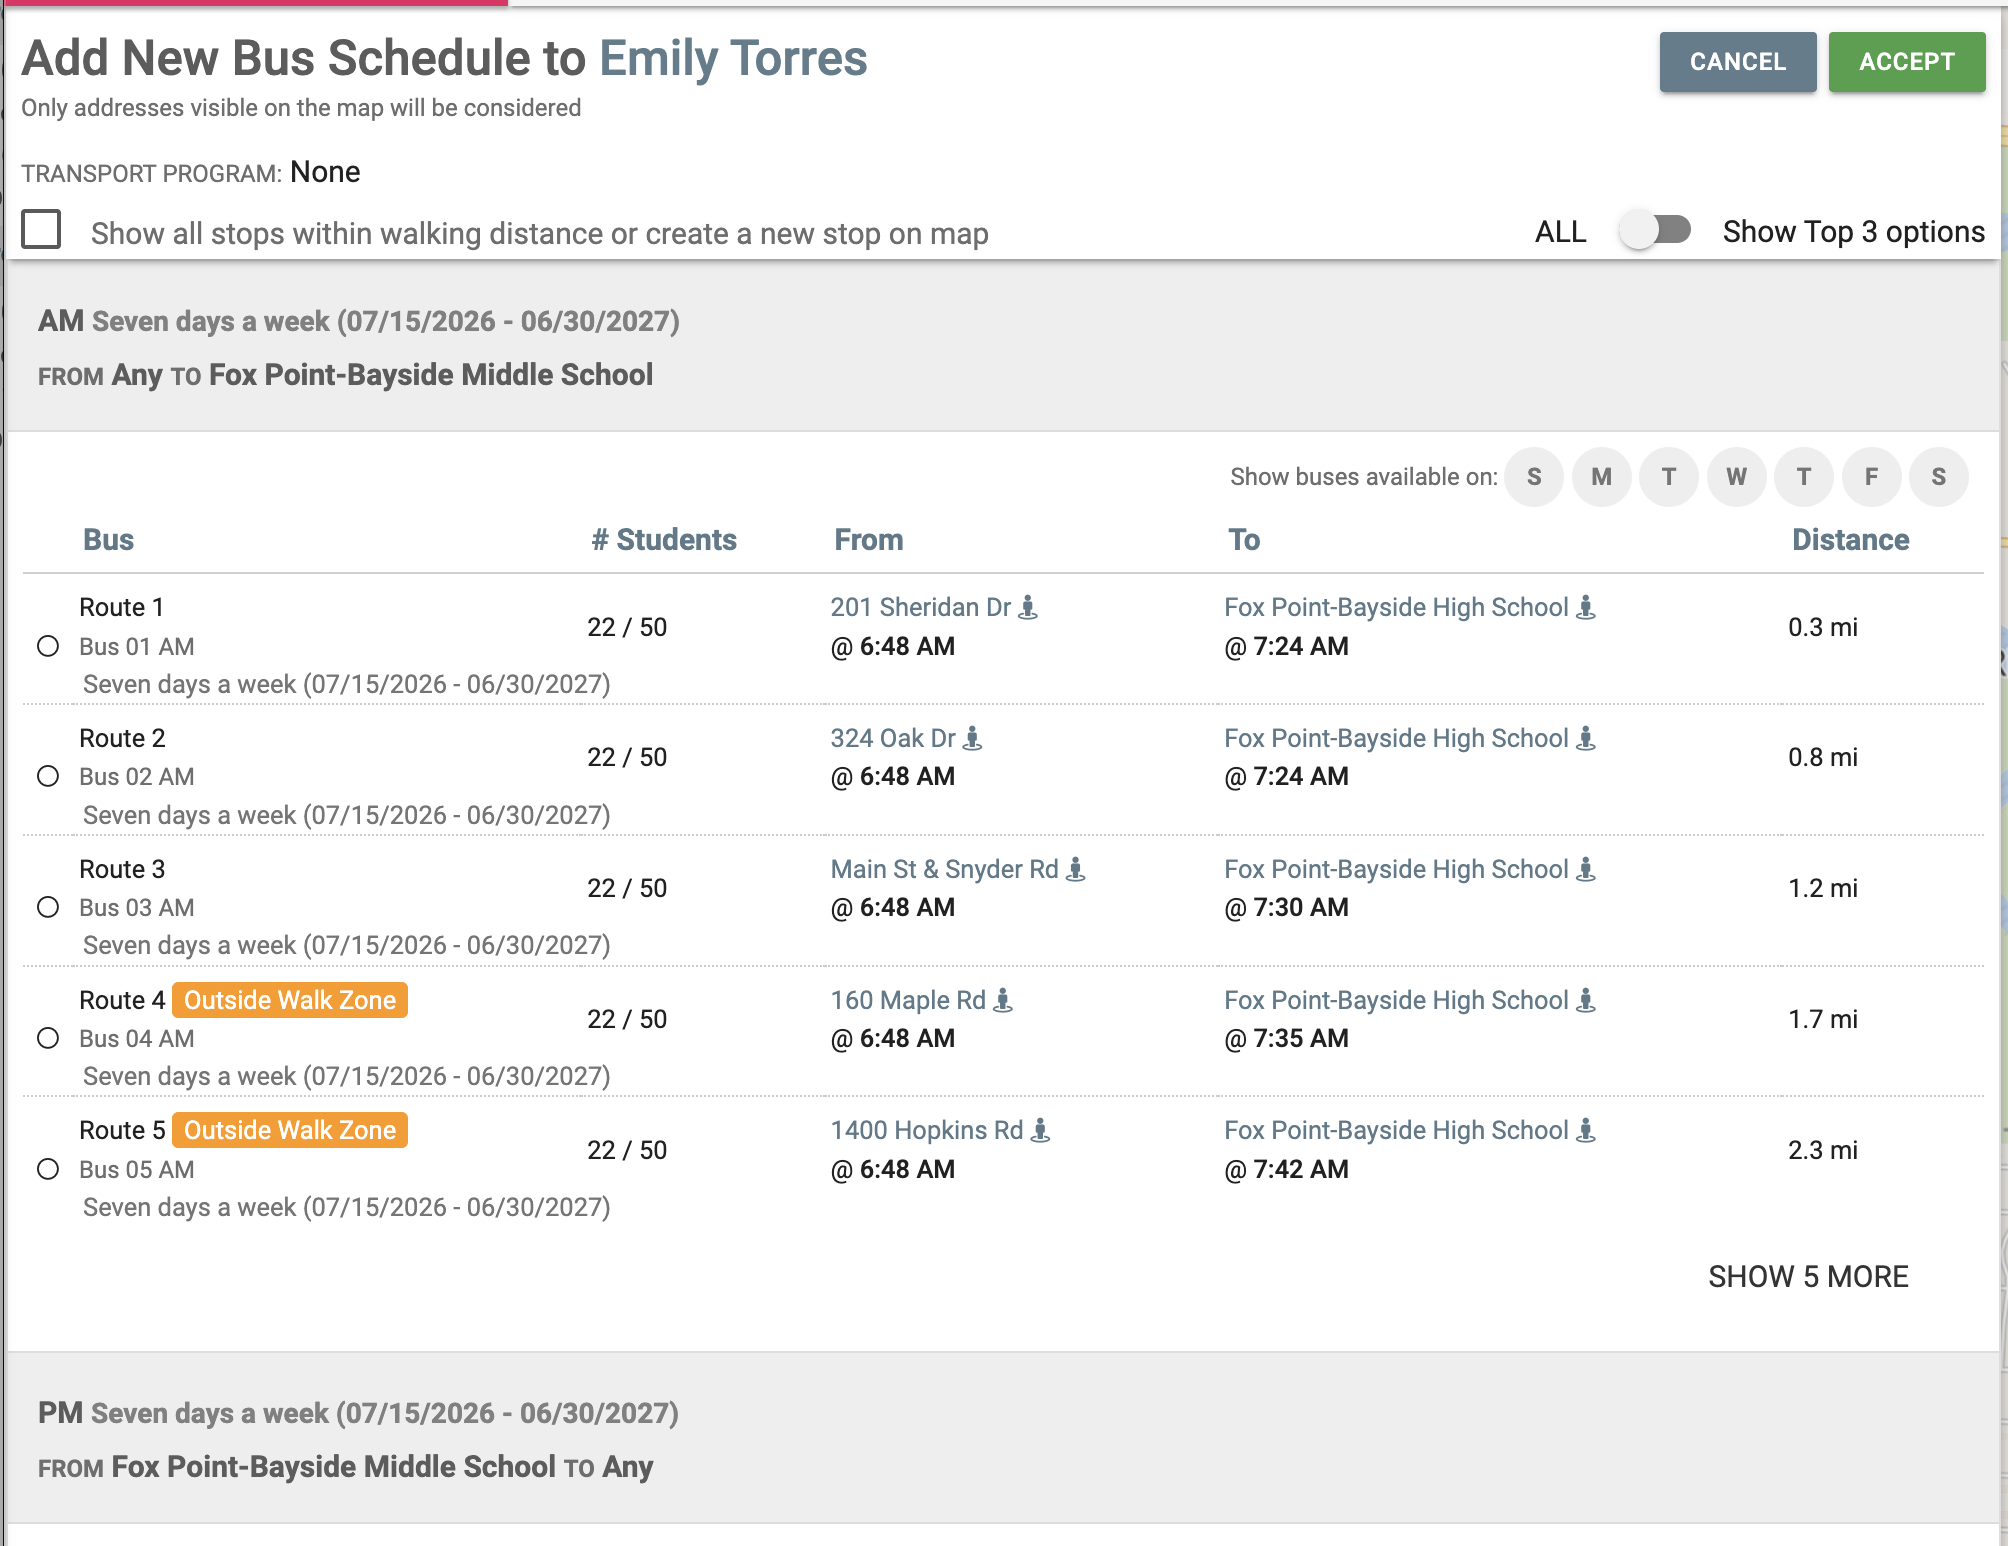
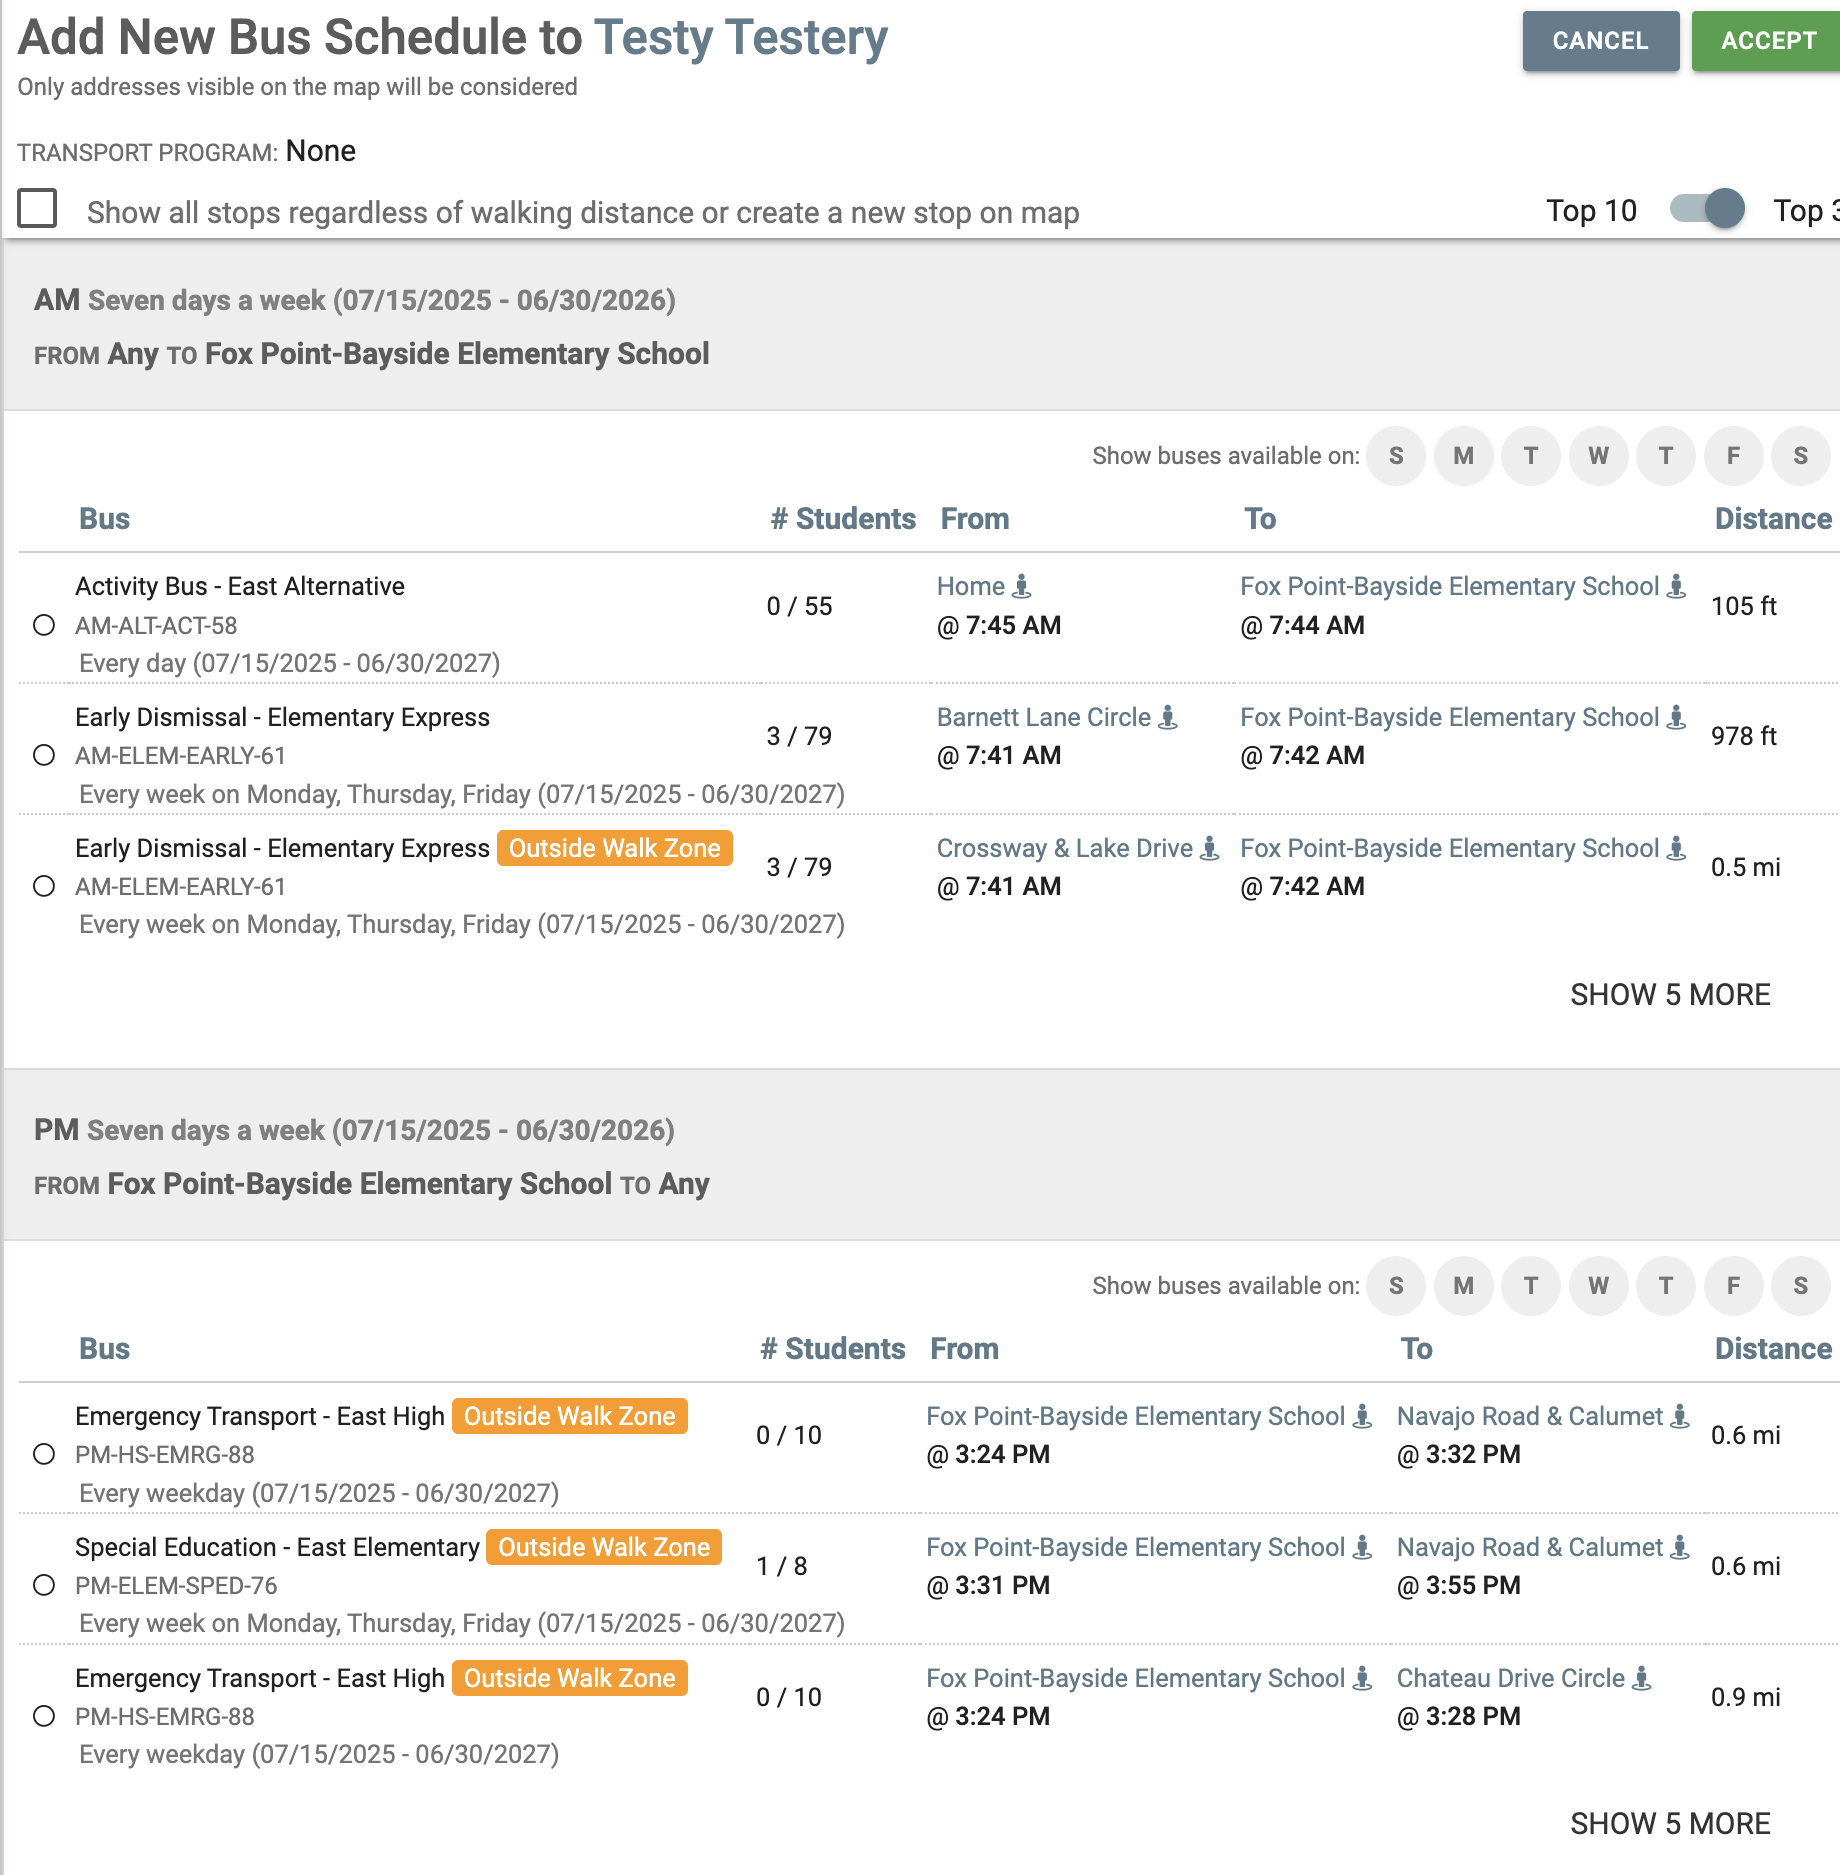
EZRD-1180 doc: refresh for default-on + current labels + new screenshot
- Feature is now a per-district setting, on by default (opt-out) — added to intro + prereqs.
- Screenshot recaptured on the current UI (Top 10 / Top 3 switch, "Show all stops
  regardless of walking distance…", Outside Walk Zone pills).
- Updated the ALL/Show-Top-3 check to Top 10 / Top 3 with an opt-out note.
- Replaced the stale "auto-fill triggers on in-zone stop count" gotcha (that over-fire
  logic was removed in hardening) with the row-count behavior + opt-out troubleshooting.

diff --git a/ezrd-1180/index.html b/ezrd-1180/index.html
@@ -44,7 +44,9 @@
     <p class="text-lg sm:text-xl text-slate-700 max-w-3xl leading-relaxed">
       On the <strong>Add Bus Schedule</strong> screen, EZRouting now automatically surfaces the nearest stops
       <em>beyond a student's walk zone</em> — tagged <span class="owz">Outside Walk Zone</span> — whenever the in-zone
-      options don't fill the view. No hidden “Show 5 More” click. Below: what it looks like, and how to verify it on a dev tenant.
+      options don't fill the view. No hidden “Show 5 More” click. It's a <strong>per-district setting</strong>, on by
+      default; a district can turn it off in Settings and its panel returns to the exact prior behavior. Below: what it
+      looks like, and how to verify it on a dev tenant.
     </p>
   </div>
 </header>
@@ -80,13 +82,14 @@
       <div class="text-xs font-semibold tracking-wider uppercase text-slate-500 mb-2">What it looks like</div>
       <figure class="border-2 border-slate-300 rounded-xl overflow-hidden">
         <img src="./add-bus-schedule-outside-walk-zone.png"
-             alt="Add Bus Schedule panel for an unrouted student: in-zone routes with no tag, plus nearest stops tagged Outside Walk Zone at 1.7 and 2.3 miles."
+             alt="Add Bus Schedule panel for an unrouted student: near stops with no tag, plus nearest stops tagged Outside Walk Zone, above a Top 10 / Top 3 switch."
              class="w-full block" />
       </figure>
       <figcaption class="text-slate-600 text-sm mt-3 leading-relaxed">
-        The <em>Add Bus Schedule</em> panel for an unrouted student. Routes 1–3 are in-zone (no tag); Routes 4–5 are tagged
-        <span class="owz">Outside Walk Zone</span> at 1.7 and 2.3 mi — all present the moment the panel opens, sorted by distance,
-        with “Show 5 More” to page further. (Dev tenant, synthetic test data.)
+        The <em>Add Bus Schedule</em> panel for an unrouted student. The near stops carry no tag; farther stops are tagged
+        <span class="owz">Outside Walk Zone</span> — all present the moment the panel opens, sorted by distance, with
+        <strong>SHOW 5 MORE</strong> to page further. The results-count switch reads <strong>Top 10 / Top 3</strong> and the
+        map checkbox reads “Show all stops regardless of walking distance…” (the on-wording). (Dev tenant, synthetic test data.)
       </figcaption>
     </div>
   </section>
@@ -105,6 +108,7 @@
         <li class="flex gap-3"><span class="text-slate-500 font-bold">›</span><span>The <strong>ezrd-1180</strong> branch is deployed to the dev tenant you'll test on.</span></li>
         <li class="flex gap-3"><span class="text-slate-500 font-bold">›</span><span>You're logged in with an <strong>admin / config</strong> role (needed to edit Settings).</span></li>
         <li class="flex gap-3"><span class="text-slate-500 font-bold">›</span><span>The tenant has routes with trips in the <strong>active school year</strong> (top-right selector). Out-of-zone stops come from trips serving the student's school — a school with no active trips shows nothing.</span></li>
+        <li class="flex gap-3"><span class="text-slate-500 font-bold">›</span><span>The setting <strong>“Include stops outside walking distance in bus schedule search”</strong> (Settings → General) is <strong>on</strong> — it's on by default, so leave it unless you're testing the opt-out.</span></li>
       </ul>
     </div>
   </section>
@@ -180,7 +184,7 @@
       </div>
       <ul class="space-y-3 text-slate-700 pl-1">
         <li class="flex gap-3"><span class="text-emerald-600 font-bold">✓</span><span><strong>Pass:</strong> the AM (and PM) section shows rows tagged <span class="owz">Outside Walk Zone</span> <strong>without clicking anything</strong> (like the screenshot above).</span></li>
-        <li class="flex gap-3"><span class="text-slate-500 font-bold">•</span><span><strong>SHOW 5 MORE</strong> pages through additional out-of-zone stops; the <strong>ALL / Show Top 3</strong> toggle changes how many show initially.</span></li>
+        <li class="flex gap-3"><span class="text-slate-500 font-bold">•</span><span><strong>SHOW 5 MORE</strong> pages through additional out-of-zone stops; the <strong>Top 10 / Top 3</strong> switch changes how many show initially. (An opted-out district shows the old <strong>ALL / Show Top 3 options</strong> switch with no SHOW 5 MORE — the pre-1180 panel.)</span></li>
         <li class="flex gap-3"><span class="text-rose-600 font-bold">✗</span><span><strong>Regression (old behavior):</strong> out-of-zone rows appear only <em>after</em> clicking SHOW 5 MORE, and the first view is bare or “NO ROUTE FOUND” despite nearby stops — means the fix isn't in effect.</span></li>
       </ul>
     </div>
@@ -213,7 +217,8 @@
         <ul class="space-y-2.5 text-slate-800 leading-relaxed">
           <li><strong>Setting didn't take effect?</strong> Config is cached ~10 minutes server-side. A save should apply to the next search; if not, wait a couple minutes and search again.</li>
           <li><strong>No “Outside Walk Zone” rows at all?</strong> Most likely the student is <em>routed</em> (needs an unrouted student — Step 2), the school has no active trips in the selected year, or the walk zone wasn't lowered/saved.</li>
-          <li><strong>Rare: view looks under-filled but nothing auto-appears.</strong> The auto-fill triggers on in-zone <em>stop</em> count; a student with several nearby stops that don't produce rows may need one “SHOW 5 MORE” click. Not a failure — click once.</li>
+          <li><strong>No out-of-zone rows even though the view is short?</strong> The auto-fill decides on the number of result <em>rows</em> the router builds (not distinct stop count) and gathers only when a vague AM/PM schedule is genuinely short of the target — so a student whose in-zone stops already fill the list correctly shows none.</li>
+          <li><strong>Nothing changes for a whole district?</strong> Check the per-district setting (Settings → General → “Include stops outside walking distance…”). If it's off, that district is opted out and sees the pre-1180 panel by design.</li>
           <li><strong>Units:</strong> the field is <strong>feet</strong> on imperial tenants (meters otherwise). 100 ft ≈ 30 m.</li>
         </ul>
       </div>
